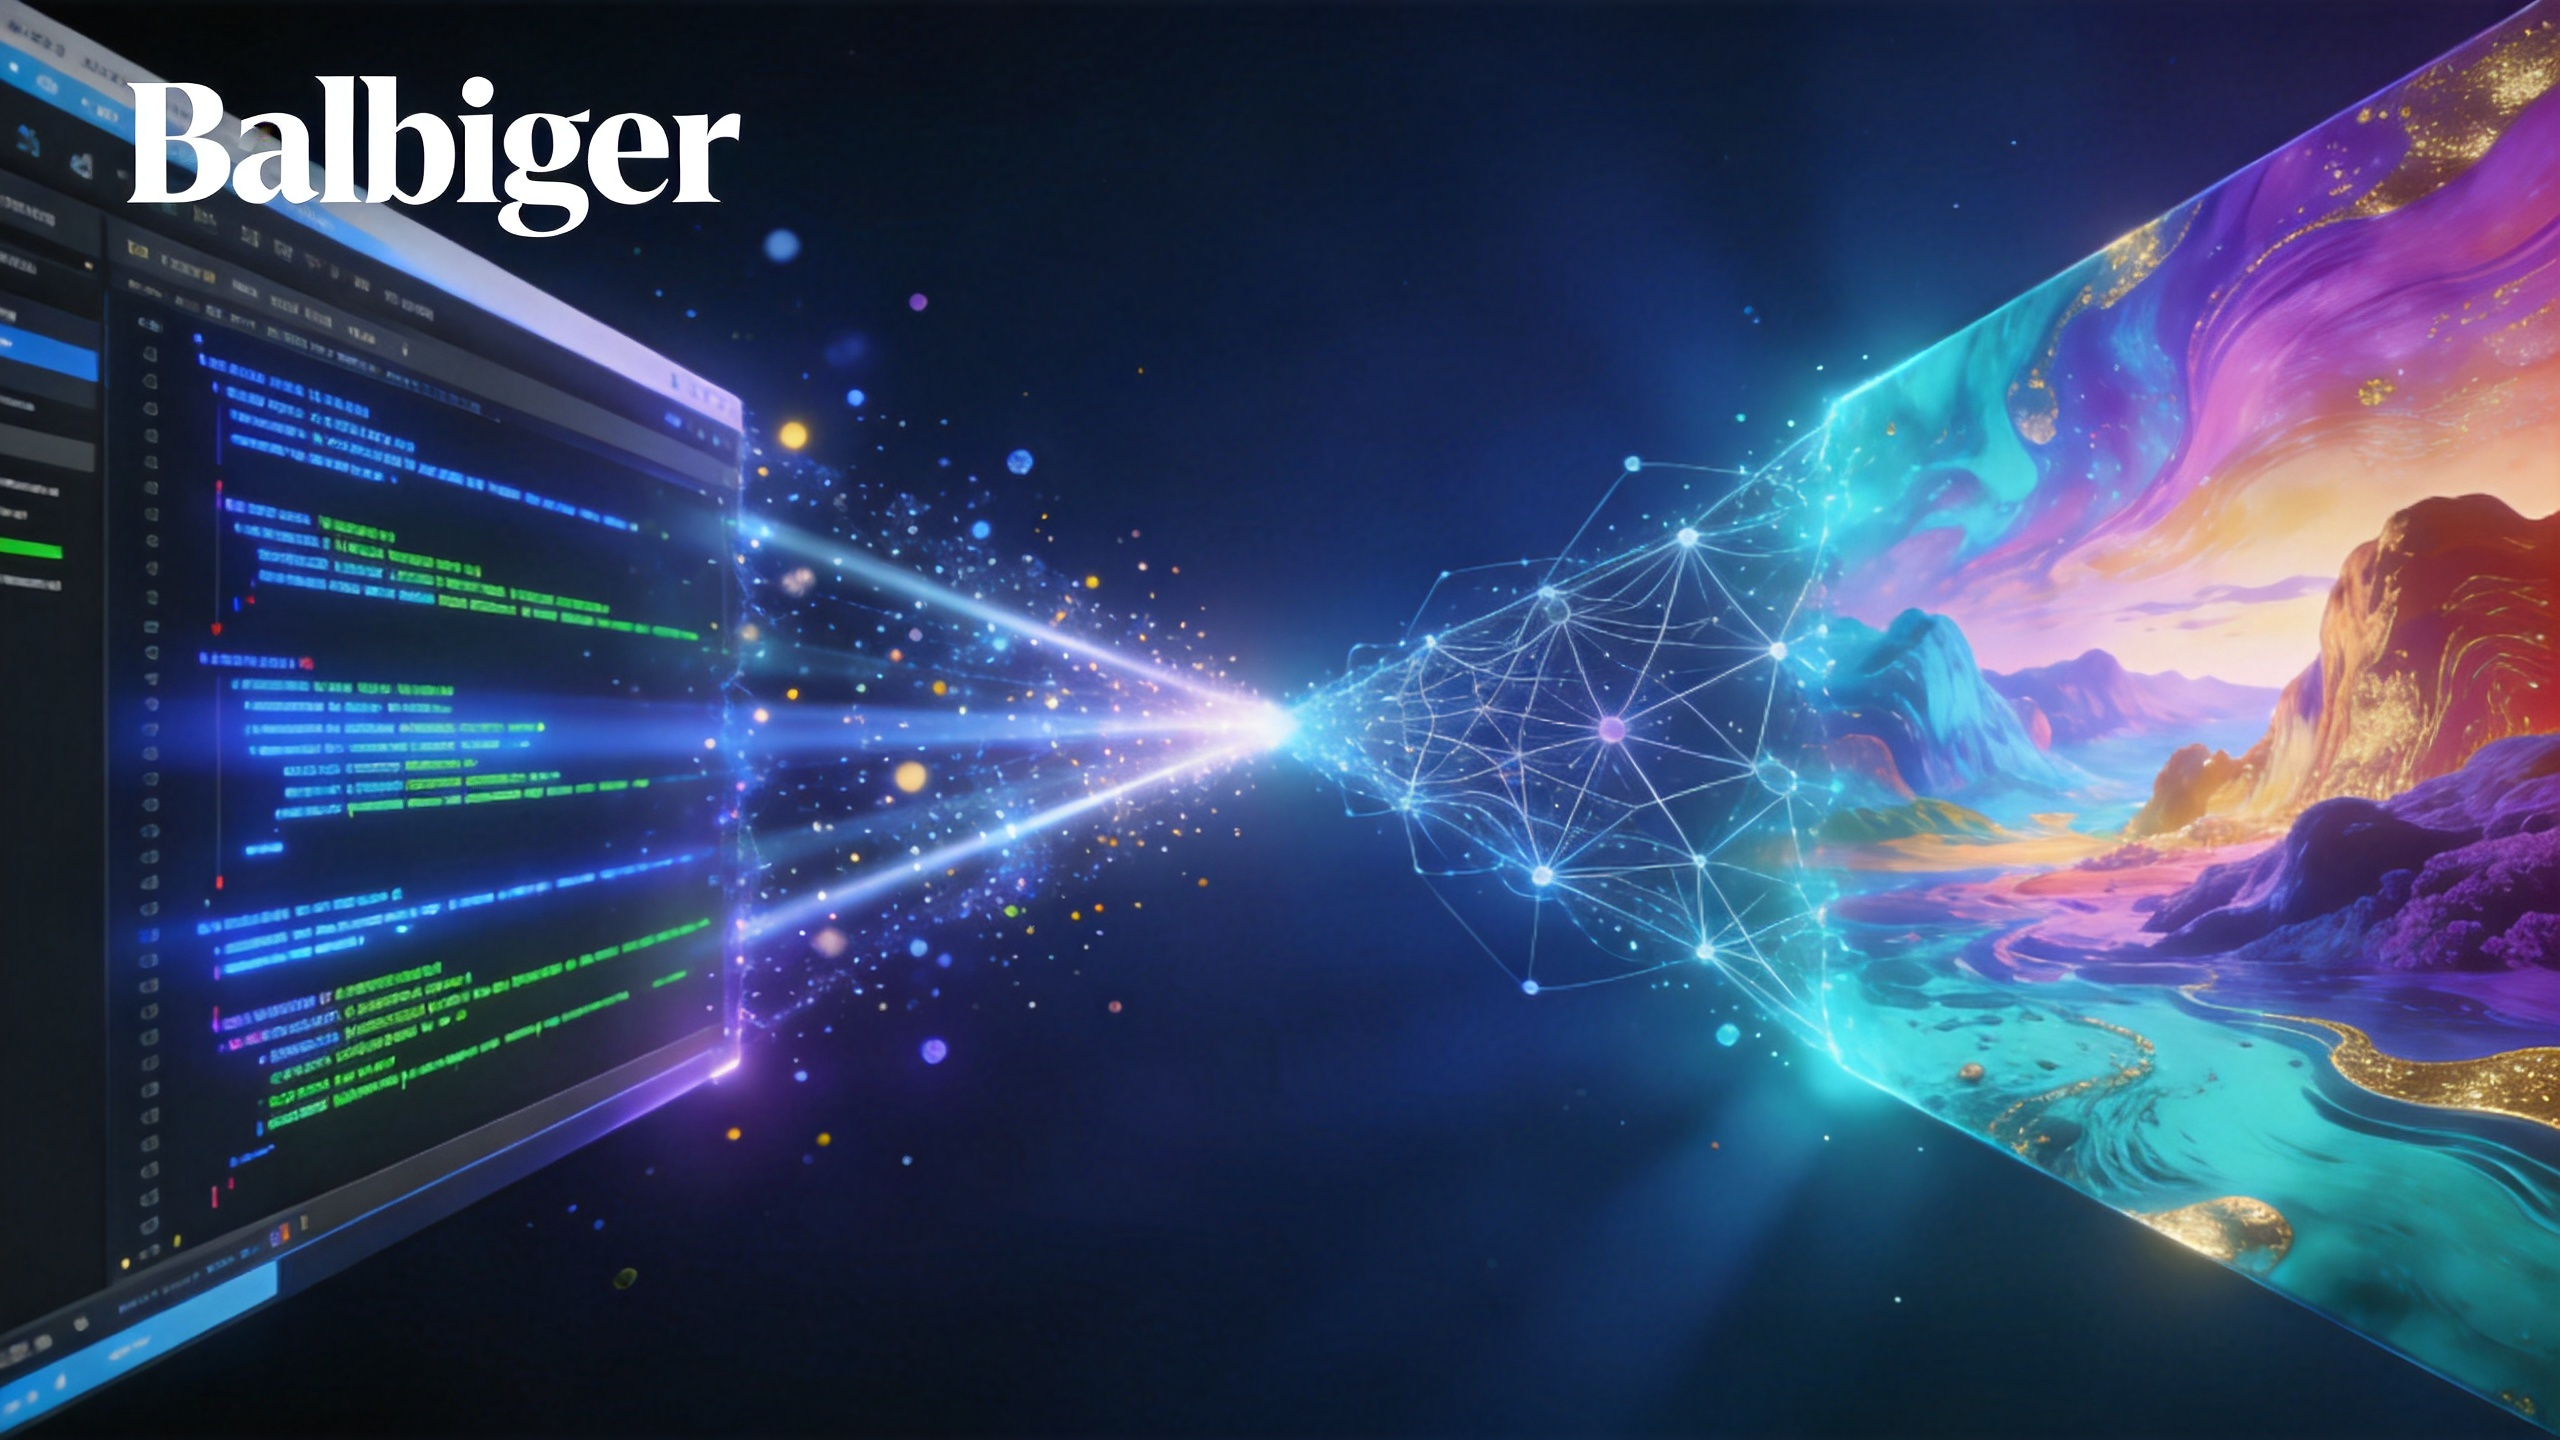
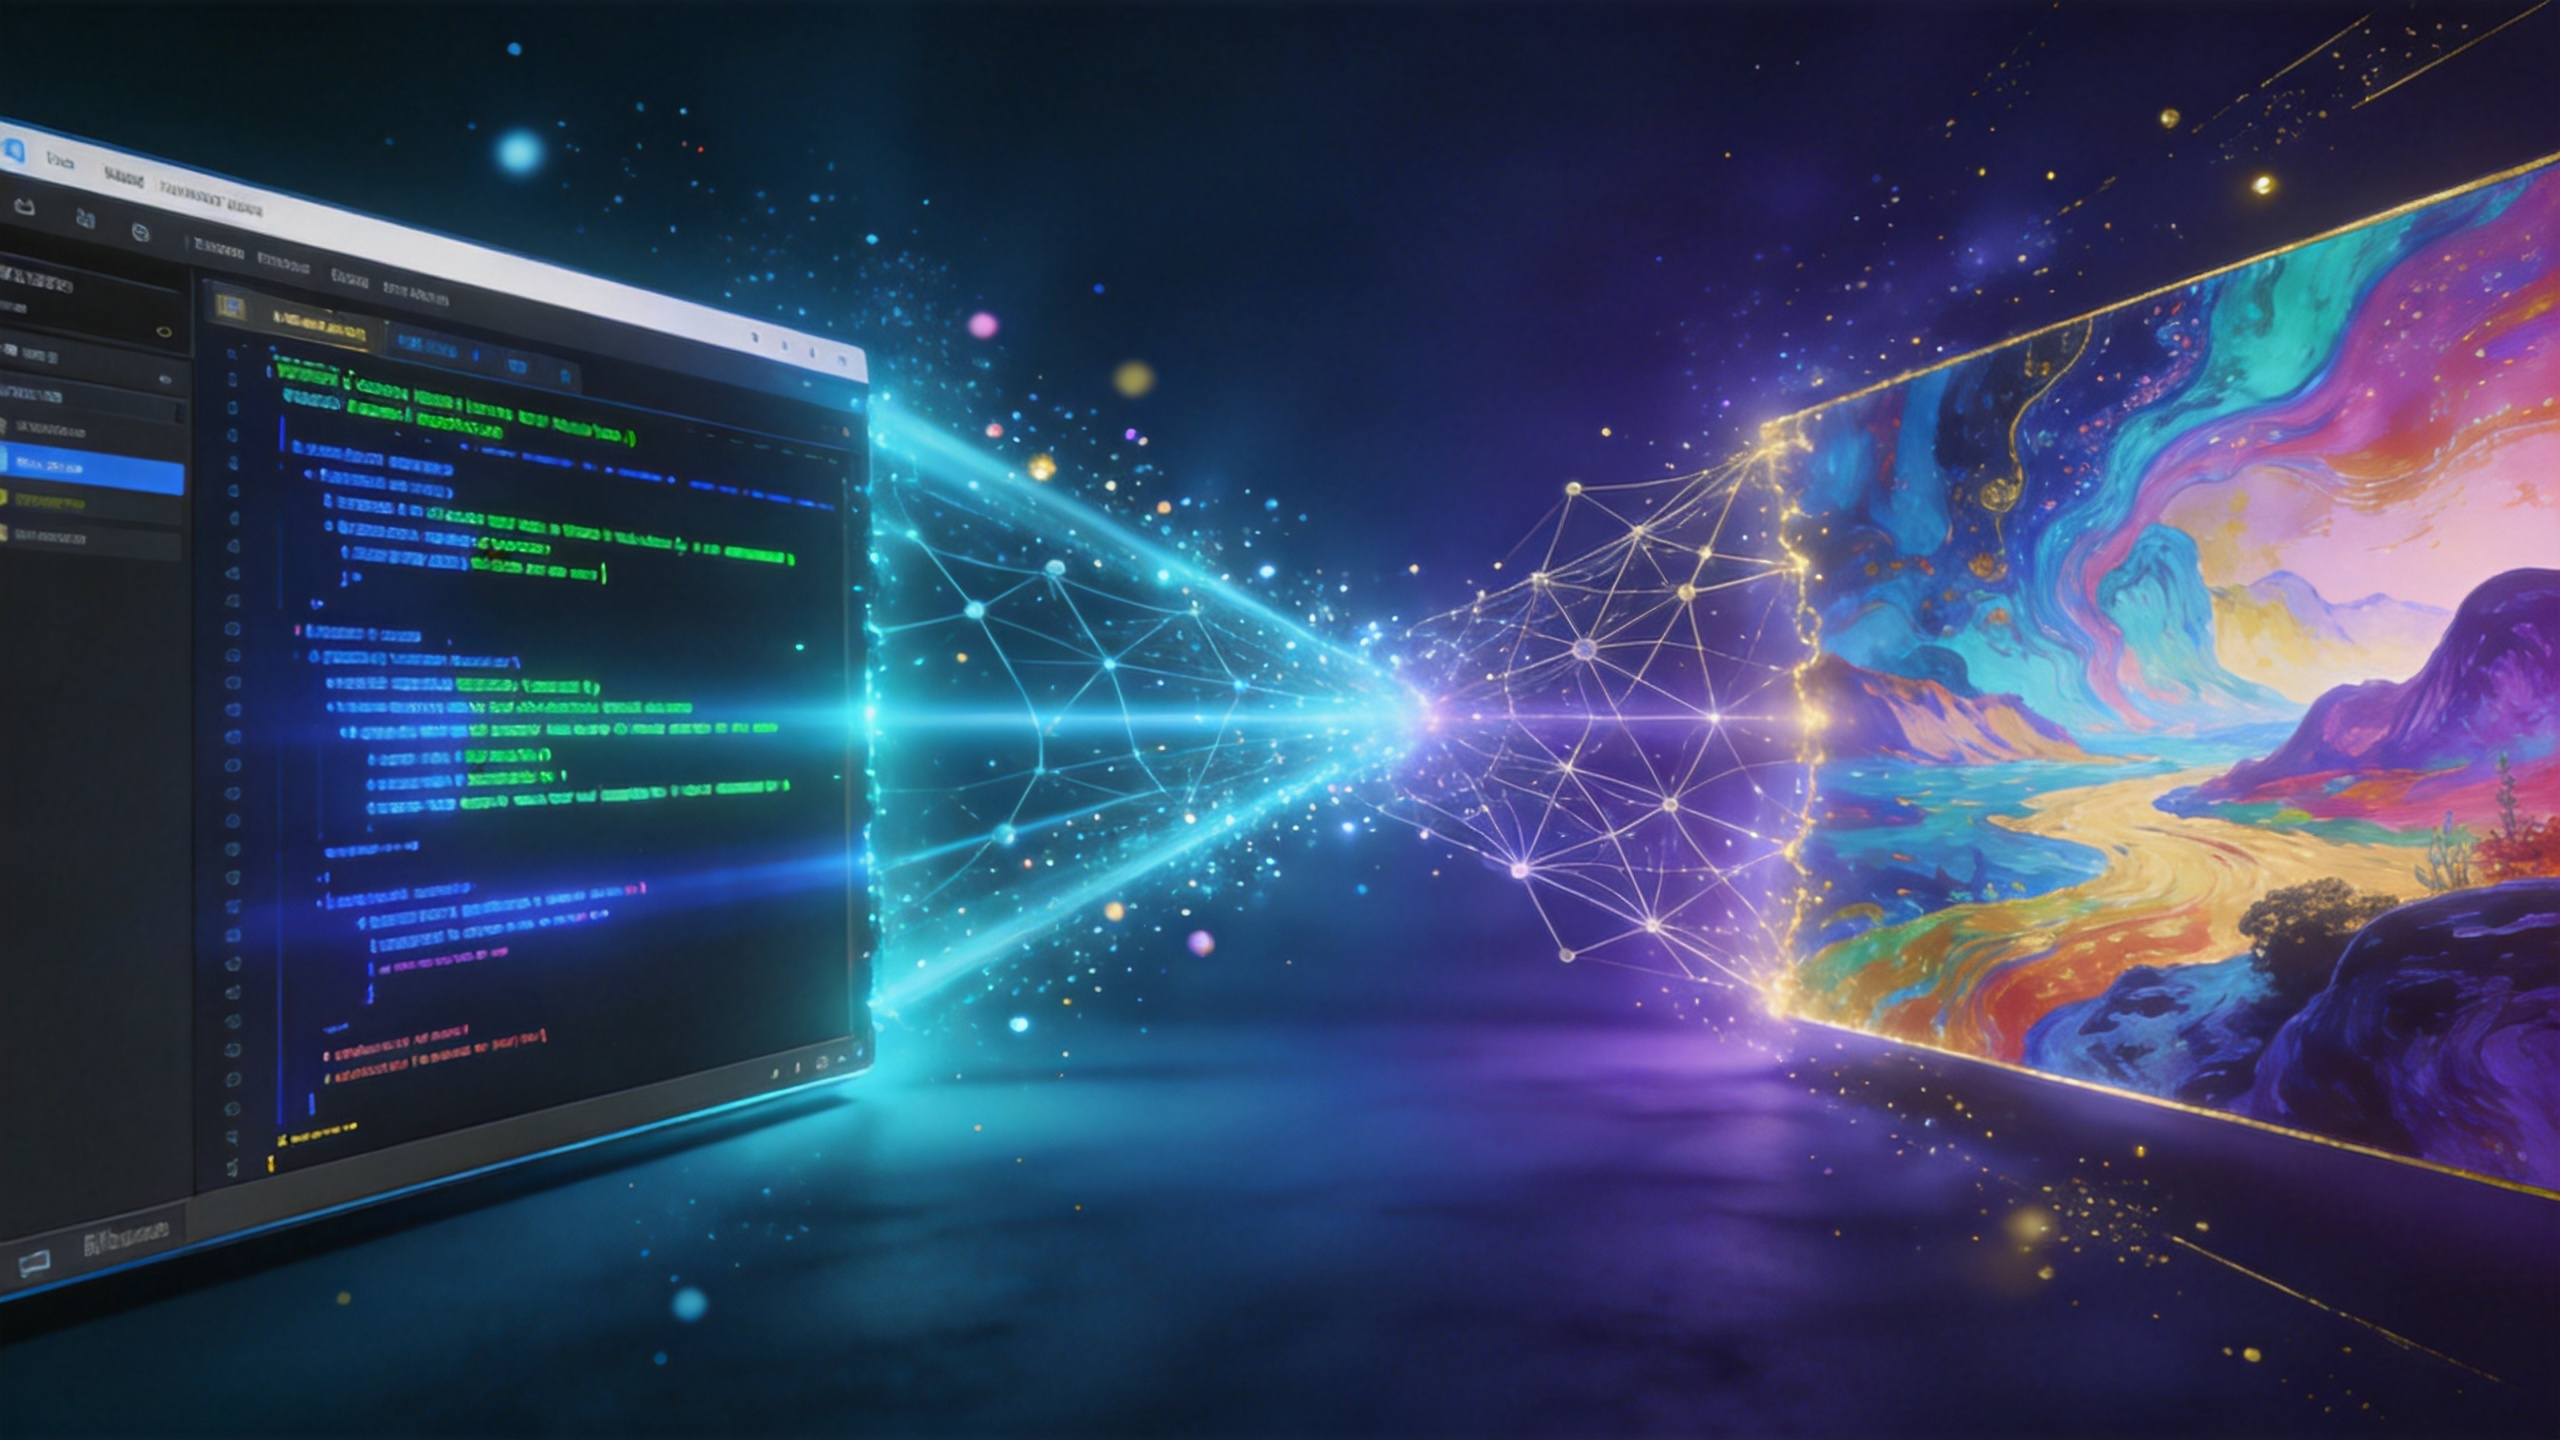
Site updated: YYYY-05-May 21, 2026 11:13:43

diff --git a/2025/04/28/我最好的朋友结婚了/index.html b/2025/04/28/我最好的朋友结婚了/index.html
@@ -63,9 +63,9 @@ var _hmt = _hmt || [];
 
 
 
-  <meta name="generator" content="Hexo 7.3.0"><link rel="stylesheet" href="/assets/css/APlayer.min.css" class="aplayer-style-marker">
+  <meta name="generator" content="Hexo 7.3.0"><link rel="alternate" href="/atom.xml" title="阿犇的自留地" type="application/atom+xml">
+<link rel="stylesheet" href="/assets/css/APlayer.min.css" class="aplayer-style-marker">
 <script src="/assets/js/APlayer.min.js" class="aplayer-script-marker"></script>
-<link rel="alternate" href="/atom.xml" title="阿犇的自留地" type="application/atom+xml">
 </head>
   <body>
     <div class="mask-border">
@@ -165,12 +165,12 @@ var _hmt = _hmt || [];
 </div>
     <div class="post-content">
     
-        <div id="aplayer-DuBKIOwJ" class="aplayer aplayer-tag-marker" style="margin-bottom: 20px;">
+        <div id="aplayer-oULVswiu" class="aplayer aplayer-tag-marker" style="margin-bottom: 20px;">
             <pre class="aplayer-lrc-content"></pre>
         </div>
         <script>
           var ap = new APlayer({
-            element: document.getElementById("aplayer-DuBKIOwJ"),
+            element: document.getElementById("aplayer-oULVswiu"),
             narrow: false,
             autoplay: false,
             showlrc: false,

diff --git a/2025/05/30/阅读卡夫卡/index.html b/2025/05/30/阅读卡夫卡/index.html
@@ -63,9 +63,9 @@ var _hmt = _hmt || [];
 
 
 
-  <meta name="generator" content="Hexo 7.3.0"><link rel="stylesheet" href="/assets/css/APlayer.min.css" class="aplayer-style-marker">
+  <meta name="generator" content="Hexo 7.3.0"><link rel="alternate" href="/atom.xml" title="阿犇的自留地" type="application/atom+xml">
+<link rel="stylesheet" href="/assets/css/APlayer.min.css" class="aplayer-style-marker">
 <script src="/assets/js/APlayer.min.js" class="aplayer-script-marker"></script>
-<link rel="alternate" href="/atom.xml" title="阿犇的自留地" type="application/atom+xml">
 </head>
   <body>
     <div class="mask-border">
@@ -165,12 +165,12 @@ var _hmt = _hmt || [];
 </div>
     <div class="post-content">
     
-        <div id="aplayer-FCqfvrLy" class="aplayer aplayer-tag-marker" style="margin-bottom: 20px;">
+        <div id="aplayer-HGCEOYgX" class="aplayer aplayer-tag-marker" style="margin-bottom: 20px;">
             <pre class="aplayer-lrc-content"></pre>
         </div>
         <script>
           var ap = new APlayer({
-            element: document.getElementById("aplayer-FCqfvrLy"),
+            element: document.getElementById("aplayer-HGCEOYgX"),
             narrow: false,
             autoplay: false,
             showlrc: false,

diff --git a/2025/07/01/20250630/index.html b/2025/07/01/20250630/index.html
@@ -63,9 +63,9 @@ var _hmt = _hmt || [];
 
 
 
-  <meta name="generator" content="Hexo 7.3.0"><link rel="stylesheet" href="/assets/css/APlayer.min.css" class="aplayer-style-marker">
+  <meta name="generator" content="Hexo 7.3.0"><link rel="alternate" href="/atom.xml" title="阿犇的自留地" type="application/atom+xml">
+<link rel="stylesheet" href="/assets/css/APlayer.min.css" class="aplayer-style-marker">
 <script src="/assets/js/APlayer.min.js" class="aplayer-script-marker"></script>
-<link rel="alternate" href="/atom.xml" title="阿犇的自留地" type="application/atom+xml">
 </head>
   <body>
     <div class="mask-border">
@@ -165,12 +165,12 @@ var _hmt = _hmt || [];
 </div>
     <div class="post-content">
     
-        <div id="aplayer-jsntWyBv" class="aplayer aplayer-tag-marker" style="margin-bottom: 20px;">
+        <div id="aplayer-RhNKmNNL" class="aplayer aplayer-tag-marker" style="margin-bottom: 20px;">
             <pre class="aplayer-lrc-content"></pre>
         </div>
         <script>
           var ap = new APlayer({
-            element: document.getElementById("aplayer-jsntWyBv"),
+            element: document.getElementById("aplayer-RhNKmNNL"),
             narrow: false,
             autoplay: false,
             showlrc: false,

diff --git a/2025/07/01/20250701/index.html b/2025/07/01/20250701/index.html
@@ -63,9 +63,9 @@ var _hmt = _hmt || [];
 
 
 
-  <meta name="generator" content="Hexo 7.3.0"><link rel="stylesheet" href="/assets/css/APlayer.min.css" class="aplayer-style-marker">
+  <meta name="generator" content="Hexo 7.3.0"><link rel="alternate" href="/atom.xml" title="阿犇的自留地" type="application/atom+xml">
+<link rel="stylesheet" href="/assets/css/APlayer.min.css" class="aplayer-style-marker">
 <script src="/assets/js/APlayer.min.js" class="aplayer-script-marker"></script>
-<link rel="alternate" href="/atom.xml" title="阿犇的自留地" type="application/atom+xml">
 </head>
   <body>
     <div class="mask-border">
@@ -165,12 +165,12 @@ var _hmt = _hmt || [];
 </div>
     <div class="post-content">
     
-        <div id="aplayer-oaiaCZWB" class="aplayer aplayer-tag-marker" style="margin-bottom: 20px;">
+        <div id="aplayer-puNtnUeX" class="aplayer aplayer-tag-marker" style="margin-bottom: 20px;">
             <pre class="aplayer-lrc-content"></pre>
         </div>
         <script>
           var ap = new APlayer({
-            element: document.getElementById("aplayer-oaiaCZWB"),
+            element: document.getElementById("aplayer-puNtnUeX"),
             narrow: false,
             autoplay: false,
             showlrc: false,

diff --git a/2025/07/01/从宋明蔚谈他的写作视角到我价值观的倾向/index.html b/2025/07/01/从宋明蔚谈他的写作视角到我价值观的倾向/index.html
@@ -63,9 +63,9 @@ var _hmt = _hmt || [];
 
 
 
-  <meta name="generator" content="Hexo 7.3.0"><link rel="stylesheet" href="/assets/css/APlayer.min.css" class="aplayer-style-marker">
+  <meta name="generator" content="Hexo 7.3.0"><link rel="alternate" href="/atom.xml" title="阿犇的自留地" type="application/atom+xml">
+<link rel="stylesheet" href="/assets/css/APlayer.min.css" class="aplayer-style-marker">
 <script src="/assets/js/APlayer.min.js" class="aplayer-script-marker"></script>
-<link rel="alternate" href="/atom.xml" title="阿犇的自留地" type="application/atom+xml">
 </head>
   <body>
     <div class="mask-border">
@@ -165,12 +165,12 @@ var _hmt = _hmt || [];
 </div>
     <div class="post-content">
     
-        <div id="aplayer-tyEFlWea" class="aplayer aplayer-tag-marker" style="margin-bottom: 20px;">
+        <div id="aplayer-nTJcWEpG" class="aplayer aplayer-tag-marker" style="margin-bottom: 20px;">
             <pre class="aplayer-lrc-content"></pre>
         </div>
         <script>
           var ap = new APlayer({
-            element: document.getElementById("aplayer-tyEFlWea"),
+            element: document.getElementById("aplayer-nTJcWEpG"),
             narrow: false,
             autoplay: false,
             showlrc: false,

diff --git a/2025/07/01/我的四个人生目标/index.html b/2025/07/01/我的四个人生目标/index.html
@@ -63,9 +63,9 @@ var _hmt = _hmt || [];
 
 
 
-  <meta name="generator" content="Hexo 7.3.0"><link rel="stylesheet" href="/assets/css/APlayer.min.css" class="aplayer-style-marker">
+  <meta name="generator" content="Hexo 7.3.0"><link rel="alternate" href="/atom.xml" title="阿犇的自留地" type="application/atom+xml">
+<link rel="stylesheet" href="/assets/css/APlayer.min.css" class="aplayer-style-marker">
 <script src="/assets/js/APlayer.min.js" class="aplayer-script-marker"></script>
-<link rel="alternate" href="/atom.xml" title="阿犇的自留地" type="application/atom+xml">
 </head>
   <body>
     <div class="mask-border">
@@ -165,12 +165,12 @@ var _hmt = _hmt || [];
 </div>
     <div class="post-content">
     
-        <div id="aplayer-JqTuUPqU" class="aplayer aplayer-tag-marker" style="margin-bottom: 20px;">
+        <div id="aplayer-iDtrWKeM" class="aplayer aplayer-tag-marker" style="margin-bottom: 20px;">
             <pre class="aplayer-lrc-content"></pre>
         </div>
         <script>
           var ap = new APlayer({
-            element: document.getElementById("aplayer-JqTuUPqU"),
+            element: document.getElementById("aplayer-iDtrWKeM"),
             narrow: false,
             autoplay: false,
             showlrc: false,

diff --git a/2025/07/01/解决了一个博客的问题-噢耶/index.html b/2025/07/01/解决了一个博客的问题-噢耶/index.html
@@ -63,9 +63,9 @@ var _hmt = _hmt || [];
 
 
 
-  <meta name="generator" content="Hexo 7.3.0"><link rel="stylesheet" href="/assets/css/APlayer.min.css" class="aplayer-style-marker">
+  <meta name="generator" content="Hexo 7.3.0"><link rel="alternate" href="/atom.xml" title="阿犇的自留地" type="application/atom+xml">
+<link rel="stylesheet" href="/assets/css/APlayer.min.css" class="aplayer-style-marker">
 <script src="/assets/js/APlayer.min.js" class="aplayer-script-marker"></script>
-<link rel="alternate" href="/atom.xml" title="阿犇的自留地" type="application/atom+xml">
 </head>
   <body>
     <div class="mask-border">
@@ -159,12 +159,12 @@ var _hmt = _hmt || [];
 </div>
     <div class="post-content">
     
-        <div id="aplayer-TAtKigqD" class="aplayer aplayer-tag-marker" style="margin-bottom: 20px;">
+        <div id="aplayer-mxySNcLz" class="aplayer aplayer-tag-marker" style="margin-bottom: 20px;">
             <pre class="aplayer-lrc-content"></pre>
         </div>
         <script>
           var ap = new APlayer({
-            element: document.getElementById("aplayer-TAtKigqD"),
+            element: document.getElementById("aplayer-mxySNcLz"),
             narrow: false,
             autoplay: false,
             showlrc: false,

diff --git a/2025/09/03/走该走的路/index.html b/2025/09/03/走该走的路/index.html
@@ -63,9 +63,9 @@ var _hmt = _hmt || [];
 
 
 
-  <meta name="generator" content="Hexo 7.3.0"><link rel="stylesheet" href="/assets/css/APlayer.min.css" class="aplayer-style-marker">
+  <meta name="generator" content="Hexo 7.3.0"><link rel="alternate" href="/atom.xml" title="阿犇的自留地" type="application/atom+xml">
+<link rel="stylesheet" href="/assets/css/APlayer.min.css" class="aplayer-style-marker">
 <script src="/assets/js/APlayer.min.js" class="aplayer-script-marker"></script>
-<link rel="alternate" href="/atom.xml" title="阿犇的自留地" type="application/atom+xml">
 </head>
   <body>
     <div class="mask-border">
@@ -165,12 +165,12 @@ var _hmt = _hmt || [];
 </div>
     <div class="post-content">
     
-        <div id="aplayer-BHCBZJYj" class="aplayer aplayer-tag-marker" style="margin-bottom: 20px;">
+        <div id="aplayer-SwENMBFf" class="aplayer aplayer-tag-marker" style="margin-bottom: 20px;">
             <pre class="aplayer-lrc-content"></pre>
         </div>
         <script>
           var ap = new APlayer({
-            element: document.getElementById("aplayer-BHCBZJYj"),
+            element: document.getElementById("aplayer-SwENMBFf"),
             narrow: false,
             autoplay: false,
             showlrc: false,

diff --git a/2025/09/04/第一次散步时的记录/index.html b/2025/09/04/第一次散步时的记录/index.html
@@ -63,9 +63,9 @@ var _hmt = _hmt || [];
 
 
 
-  <meta name="generator" content="Hexo 7.3.0"><link rel="stylesheet" href="/assets/css/APlayer.min.css" class="aplayer-style-marker">
+  <meta name="generator" content="Hexo 7.3.0"><link rel="alternate" href="/atom.xml" title="阿犇的自留地" type="application/atom+xml">
+<link rel="stylesheet" href="/assets/css/APlayer.min.css" class="aplayer-style-marker">
 <script src="/assets/js/APlayer.min.js" class="aplayer-script-marker"></script>
-<link rel="alternate" href="/atom.xml" title="阿犇的自留地" type="application/atom+xml">
 </head>
   <body>
     <div class="mask-border">
@@ -165,12 +165,12 @@ var _hmt = _hmt || [];
 </div>
     <div class="post-content">
     
-        <div id="aplayer-dIYrBZhG" class="aplayer aplayer-tag-marker" style="margin-bottom: 20px;">
+        <div id="aplayer-zCgOoahp" class="aplayer aplayer-tag-marker" style="margin-bottom: 20px;">
             <pre class="aplayer-lrc-content"></pre>
         </div>
         <script>
           var ap = new APlayer({
-            element: document.getElementById("aplayer-dIYrBZhG"),
+            element: document.getElementById("aplayer-zCgOoahp"),
             narrow: false,
             autoplay: false,
             showlrc: false,

diff --git a/2025/09/25/定制自己的透镜/index.html b/2025/09/25/定制自己的透镜/index.html
@@ -63,9 +63,9 @@ var _hmt = _hmt || [];
 
 
 
-  <meta name="generator" content="Hexo 7.3.0"><link rel="stylesheet" href="/assets/css/APlayer.min.css" class="aplayer-style-marker">
+  <meta name="generator" content="Hexo 7.3.0"><link rel="alternate" href="/atom.xml" title="阿犇的自留地" type="application/atom+xml">
+<link rel="stylesheet" href="/assets/css/APlayer.min.css" class="aplayer-style-marker">
 <script src="/assets/js/APlayer.min.js" class="aplayer-script-marker"></script>
-<link rel="alternate" href="/atom.xml" title="阿犇的自留地" type="application/atom+xml">
 </head>
   <body>
     <div class="mask-border">
@@ -165,12 +165,12 @@ var _hmt = _hmt || [];
 </div>
     <div class="post-content">
     
-        <div id="aplayer-AUqCdKkJ" class="aplayer aplayer-tag-marker" style="margin-bottom: 20px;">
+        <div id="aplayer-KOxYnhkv" class="aplayer aplayer-tag-marker" style="margin-bottom: 20px;">
             <pre class="aplayer-lrc-content"></pre>
         </div>
         <script>
           var ap = new APlayer({
-            element: document.getElementById("aplayer-AUqCdKkJ"),
+            element: document.getElementById("aplayer-KOxYnhkv"),
             narrow: false,
             autoplay: false,
             showlrc: false,

diff --git a/2025/01/16/一点体会--2025:1:16/index.html b/2025/01/16/一点体会--2025:1:16/index.html
@@ -63,10 +63,10 @@ var _hmt = _hmt || [];
 
 
 
-  <meta name="generator" content="Hexo 7.3.0"><link rel="stylesheet" href="/assets/css/APlayer.min.css" class="aplayer-style-marker">
+  <meta name="generator" content="Hexo 7.3.0"><link rel="alternate" href="/atom.xml" title="阿犇的自留地" type="application/atom+xml">
+<link rel="stylesheet" href="/assets/css/APlayer.min.css" class="aplayer-style-marker">
 <script src="/assets/js/APlayer.min.js" class="aplayer-script-marker"></script>
 <script src="/assets/js/Meting.min.js" class="meting-script-marker"></script>
-<link rel="alternate" href="/atom.xml" title="阿犇的自留地" type="application/atom+xml">
 </head>
   <body>
     <div class="mask-border">
@@ -166,7 +166,7 @@ var _hmt = _hmt || [];
 </div>
     <div class="post-content">
     
-    <div id="aplayer-afvwbGvG" class="aplayer aplayer-tag-marker meting-tag-marker"
+    <div id="aplayer-gCXtnXyG" class="aplayer aplayer-tag-marker meting-tag-marker"
          data-id="2098125455" data-server="netease" data-type="song" data-mode="circulation" data-autoplay="false" data-mutex="true" data-listmaxheight="340px" data-preload="auto" data-theme="#ad7a86"
     ></div>
 

diff --git a/2025/03/18/Why-Do-I-Want-to-Learn-Coding/index.html b/2025/03/18/Why-Do-I-Want-to-Learn-Coding/index.html
@@ -63,10 +63,10 @@ var _hmt = _hmt || [];
 
 
 
-  <meta name="generator" content="Hexo 7.3.0"><link rel="stylesheet" href="/assets/css/APlayer.min.css" class="aplayer-style-marker">
+  <meta name="generator" content="Hexo 7.3.0"><link rel="alternate" href="/atom.xml" title="阿犇的自留地" type="application/atom+xml">
+<link rel="stylesheet" href="/assets/css/APlayer.min.css" class="aplayer-style-marker">
 <script src="/assets/js/APlayer.min.js" class="aplayer-script-marker"></script>
 <script src="/assets/js/Meting.min.js" class="meting-script-marker"></script>
-<link rel="alternate" href="/atom.xml" title="阿犇的自留地" type="application/atom+xml">
 </head>
   <body>
     <div class="mask-border">
@@ -166,7 +166,7 @@ var _hmt = _hmt || [];
 </div>
     <div class="post-content">
     
-    <div id="aplayer-LZInstXe" class="aplayer aplayer-tag-marker meting-tag-marker"
+    <div id="aplayer-SPlnDVTO" class="aplayer aplayer-tag-marker meting-tag-marker"
          data-id="22644325" data-server="netease" data-type="song" data-mode="circulation" data-autoplay="false" data-mutex="true" data-listmaxheight="340px" data-preload="auto" data-theme="#ad7a86"
     ></div>
 